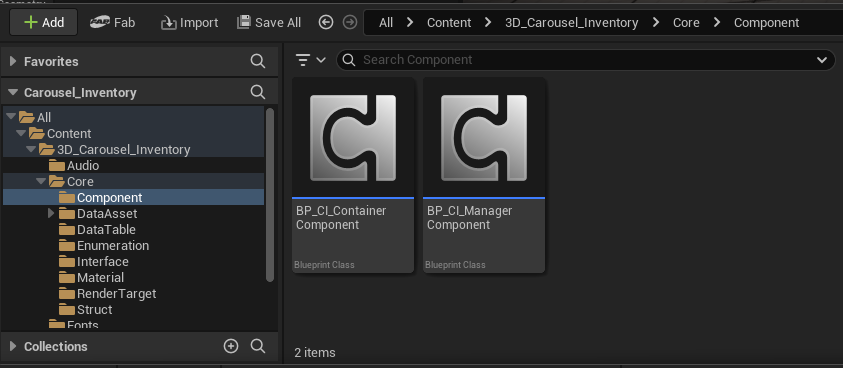
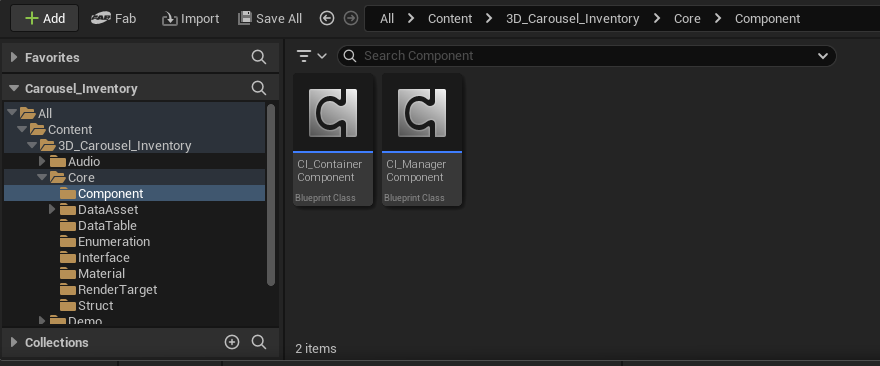
Update documentation to adapt to project changes

diff --git a/docs/how-to-use/property.md b/docs/how-to-use/property.md
@@ -1,9 +1,9 @@
-## 2 - In the details pane of the BP_CI_ManagerComponent you will find the section settings. Here you can configure some initial aspects of the inventory functionality.
+## 2 - In the details pane of the CI_ManagerComponent you will find the section settings. Here you can configure some initial aspects of the inventory functionality.
 
 ![alt text](../prints/docs-4.png)
 
 The names of each option are self-explanatory. In this feature, I use time dilation to simulate a pause game.
-The CI SC Actor and the CI SC Investigator are the two main scene capture actors for the asset. Set an ideal location for both in the world.
+The CI SC InventoryScene and the CI SC InvestigateScene are the two main scene capture actors for the asset. Set an ideal location for both in the world.
 
 To show or hide the inventory screen, you must call the functions contained in the component manager.
 

diff --git a/docs/how-to-use/dataasset.md b/docs/how-to-use/dataasset.md
@@ -1,4 +1,4 @@
-## 4 - Still in the Core folder, locate the DataAsset folder. You should create a data asset derived from BP_CI_PDA_Item for each item in your game and adjust the settings for each one.
+## 4 - Still in the Core folder, locate the DataAsset folder. You should create a data asset derived from PDA_CI_Item for each item in your game and adjust the settings for each one.
 
 ![alt text](../prints/docs-7.png)
 
